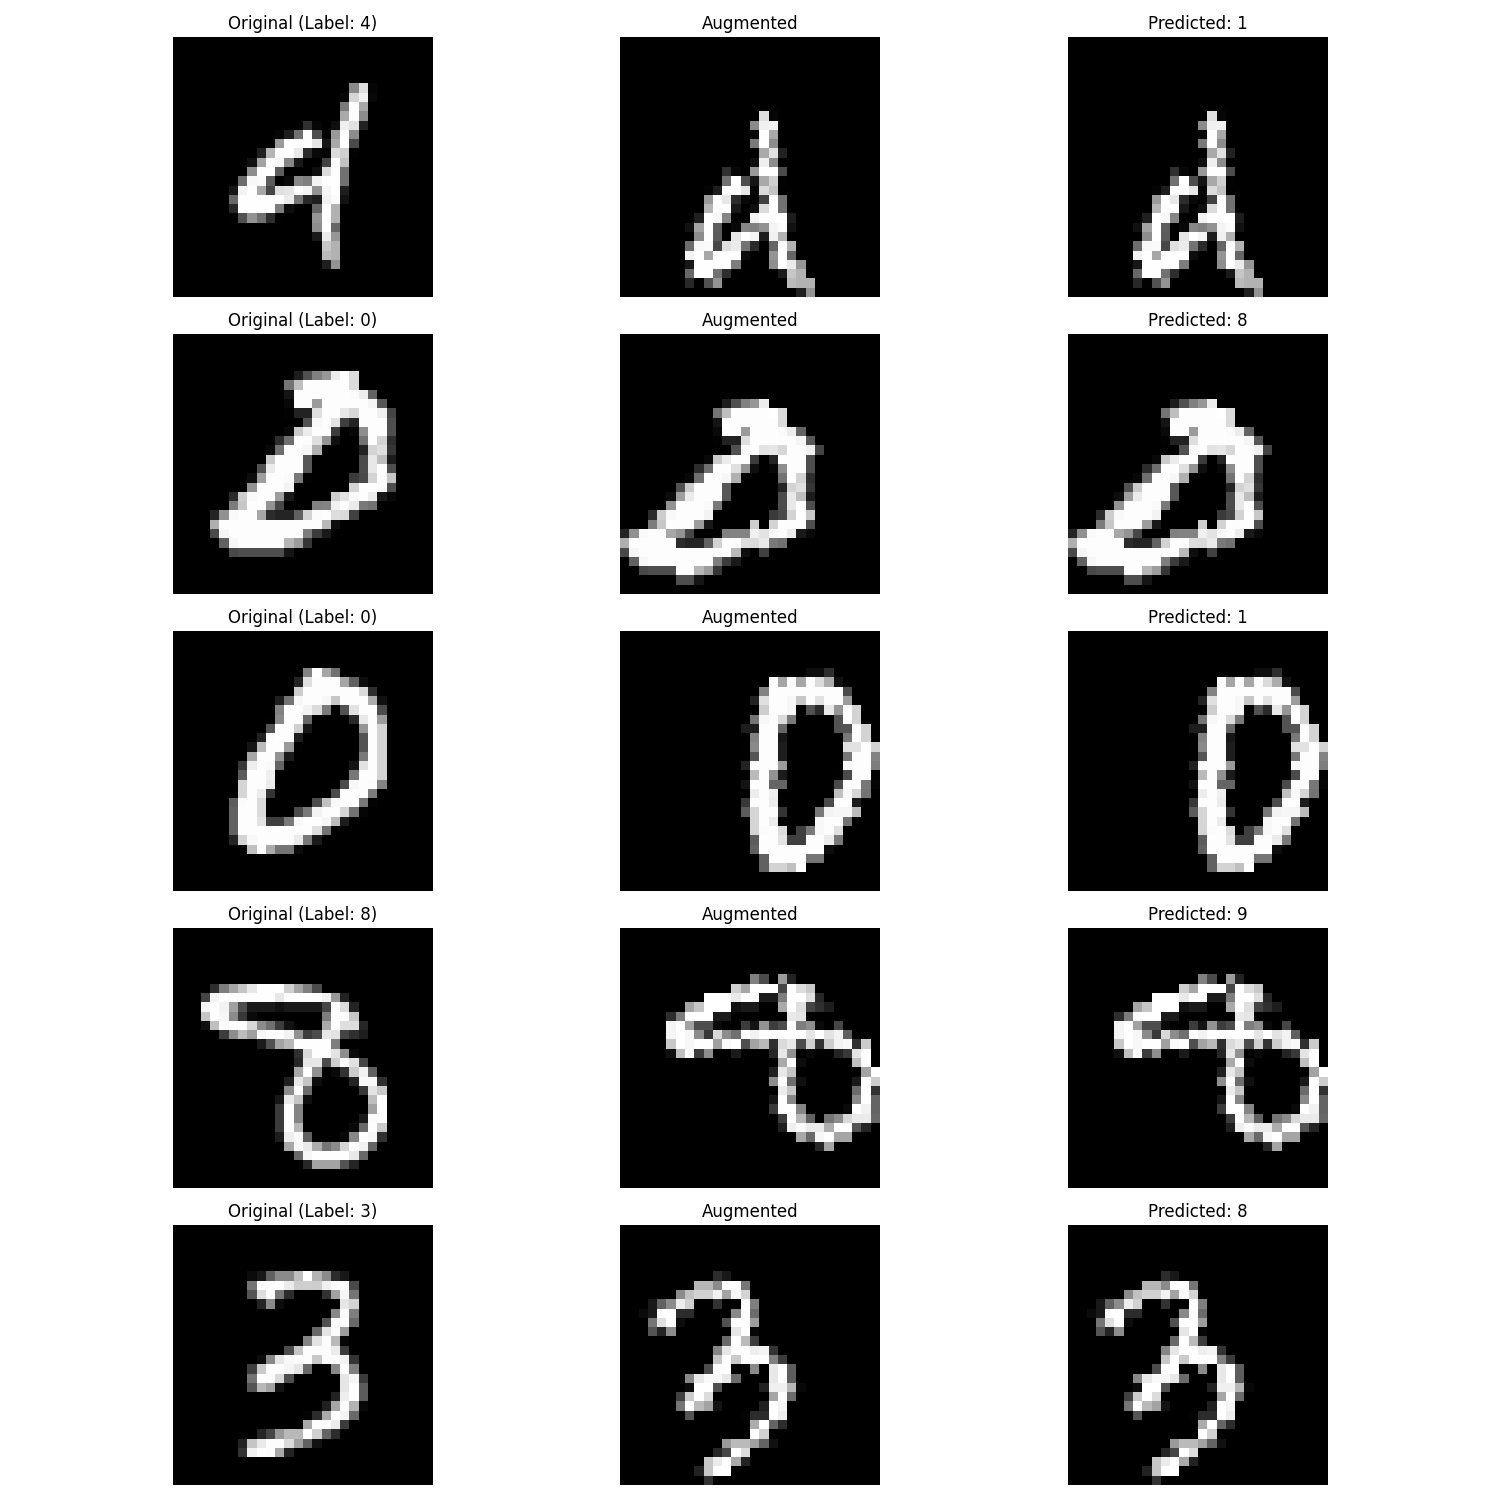
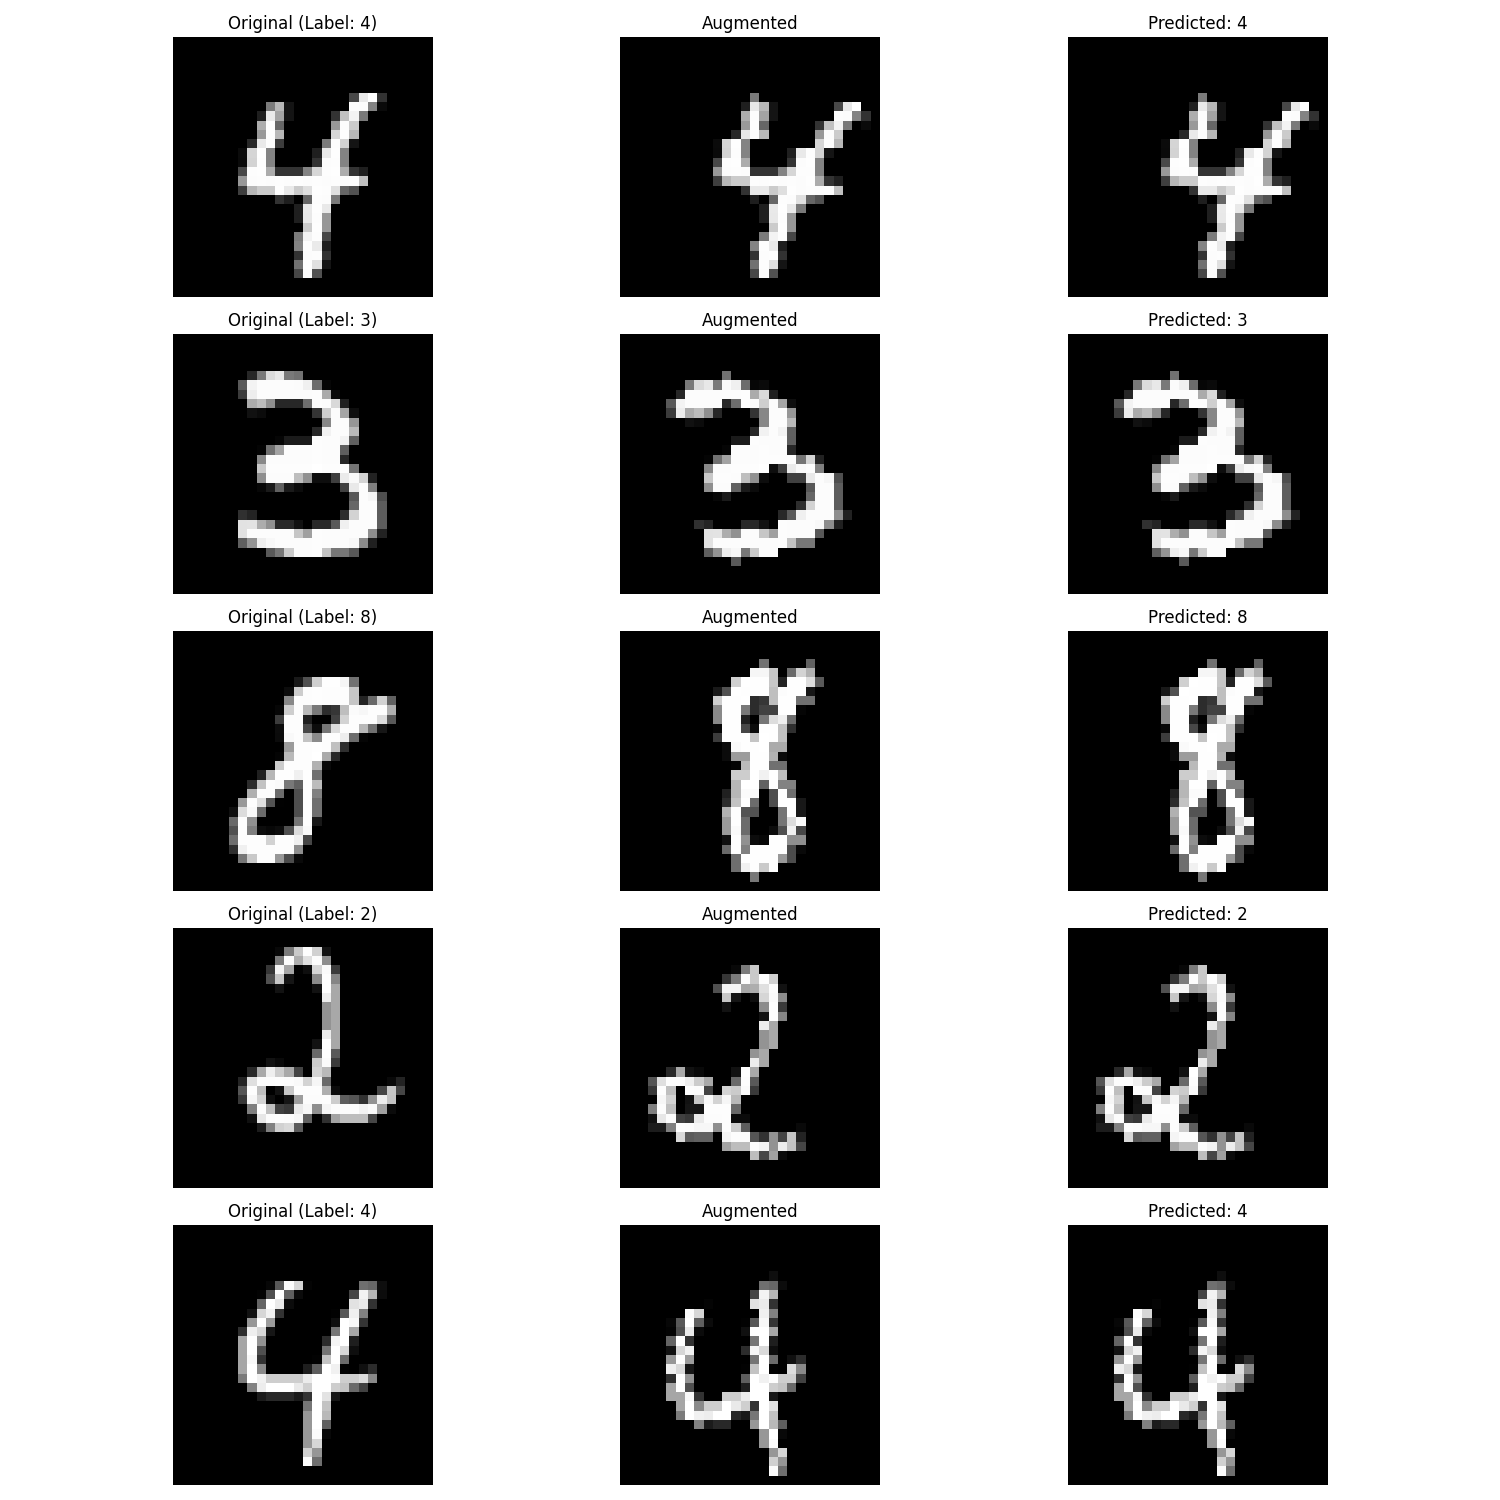
added example to README.md and updated the code to generate the examples

diff --git a/generate_examples.py b/generate_examples.py
@@ -4,6 +4,7 @@ import matplotlib.pyplot as plt
 import numpy as np
 from mnist_model import get_data_transforms, train_model
 import os
+import time
 
 def denormalize(tensor):
     """Convert normalized tensor back to original scale"""
@@ -13,28 +14,27 @@ def generate_example_images(num_examples=5, save_dir='example_images'):
     # Create save directory if it doesn't exist
     os.makedirs(save_dir, exist_ok=True)
     
+    # Set random seed based on current time to get different images each run
+    current_seed = int(time.time())
+    torch.manual_seed(current_seed)
+    np.random.seed(current_seed)
+    
     # Define more aggressive augmentations
     augmentation_transform = transforms.Compose([
-        transforms.RandomRotation(30),  # Rotate up to 30 degrees
-        transforms.RandomAffine(0, translate=(0.2, 0.2)),  # Translate up to 20%
+        transforms.RandomRotation(30),
+        transforms.RandomAffine(0, translate=(0.2, 0.2)),
         transforms.ToTensor(),
         transforms.Normalize((0.5,), (0.5,))
     ])
     
-    # Load dataset with original images (no transforms)
+    # Load datasets
     original_dataset = datasets.MNIST('./data', train=True, download=True)
-    
-    # Load dataset with augmentation transforms
     augmented_dataset = datasets.MNIST('./data', train=True, download=True,
                                      transform=augmentation_transform)
     
     # Train model to make predictions
     model, _ = train_model(epochs=1)
     model.eval()
-    
-    # Set random seeds for reproducibility
-    torch.manual_seed(42)
-    np.random.seed(42)
     
     # Generate examples
     plt.figure(figsize=(15, 3*num_examples))
@@ -48,14 +48,15 @@ def generate_example_images(num_examples=5, save_dir='example_images'):
         
         # Get augmented image
         aug_img, _ = augmented_dataset[idx]
-        aug_img = denormalize(aug_img).squeeze().numpy()
         
-        # Get prediction
+        # Make prediction using the normalized augmented image
         with torch.no_grad():
-            # Convert numpy array to torch tensor
-            aug_tensor = torch.from_numpy(aug_img).float()
-            pred = model(aug_tensor.unsqueeze(0).unsqueeze(0))
+            # Use aug_img directly as it's already properly normalized
+            pred = model(aug_img.unsqueeze(0))  # Add batch dimension
             pred_label = pred.argmax(dim=1).item()
+        
+        # Convert augmented image for display
+        aug_img_display = denormalize(aug_img).squeeze().numpy()
         
         # Plot
         plt.subplot(num_examples, 3, i*3 + 1)
@@ -64,12 +65,12 @@ def generate_example_images(num_examples=5, save_dir='example_images'):
         plt.axis('off')
         
         plt.subplot(num_examples, 3, i*3 + 2)
-        plt.imshow(aug_img, cmap='gray')
+        plt.imshow(aug_img_display, cmap='gray')
         plt.title('Augmented')
         plt.axis('off')
         
         plt.subplot(num_examples, 3, i*3 + 3)
-        plt.imshow(aug_img, cmap='gray')
+        plt.imshow(aug_img_display, cmap='gray')
         plt.title(f'Predicted: {pred_label}')
         plt.axis('off')
     
